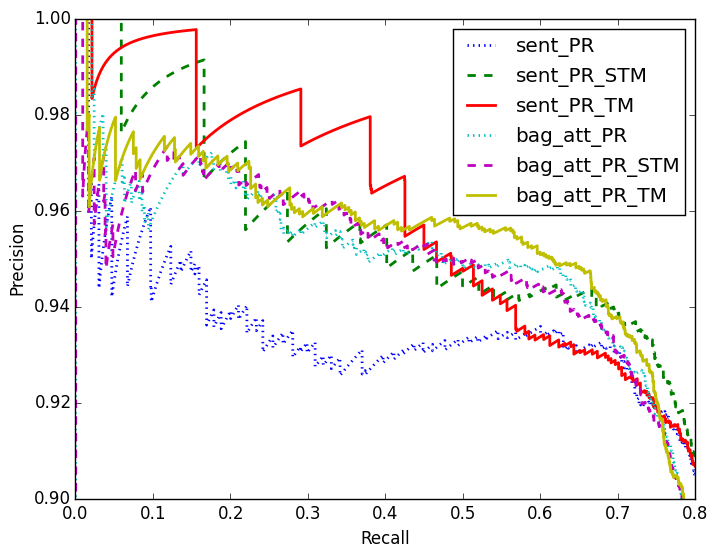
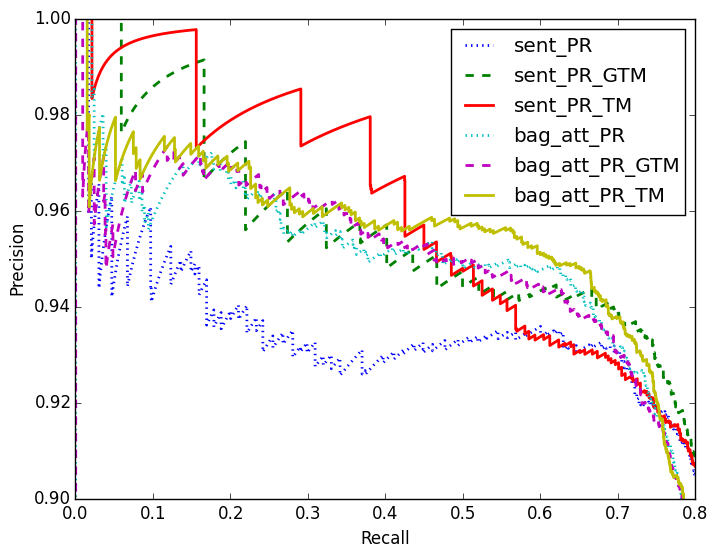
modification and expansion in related work, minor in results

Changed region(s): [[0.7057, 0.1221, 0.9512, 0.3662], [0.6137, 0.061, 0.675, 0.3968], [0.7057, 0.061, 0.8285, 0.0916]]

diff --git a/related.tex b/related.tex
@@ -4,8 +4,9 @@
 
 \paragraph{Distant Supervision in NLP} In addition to relation extraction~\cite{mintz2009distant}, distant supervision
 (\DS) is shown to be effective in generating training data for various NLP tasks, e.g., tweet sentiment
-classification~\cite{go2009twitter}, multi-instance learning with overlapping relations~\cite{ritter2011named}.
-However, these early applications of \DS do not address the issue of data noise.
+classification~\cite{go2009twitter}, \orange{tweet named entity classifying}~\cite{ritter2011named}.
+%multi-instance learning with overlapping relations~\cite{ritter2011named}.
+However, these early applications of \DS do not address the issue of data noise. \orange{no cross lingual POS tagging?}
 
 %Due to the simplicity and the good generalization ability of distant supervision, this method has been utilized in
 %many tasks. \cite{go2009twitter} builds training data for sentiment classification by using emoticons to label the
@@ -16,14 +17,15 @@ However, these early applications of \DS do not address the issue of data noise.
 %existence of the triple.
 
 \paragraph{Noise Reduction}
-Numerous approaches have been proposed in recent years to reduce the influence of wrongly labeled data in relation extraction (\RE).
+Some approaches have been proposed in recent years to reduce the influence of wrongly labeled data in relation extraction (\RE).
 The work presented by \cite{takamatsu2012reducing} removes potential noisy sentences by identifying bad syntactic
-patterns at the pre-processing stage. Several researchers proposed to alleviate the problem by considering the \RE task
-as a multi-instance classification
-problem and assume
-that at least one of the retrieved sentences (or sentence bags) supports the fact triple (i.e. at-least-one assumption)~\cite{riedel2010modeling,hoffmann2011knowledge,surdeanu2012multi,zeng2015distant,lin2016neural}.
-In contrast to our work in noise modeling, these prior approaches all aim to identify reliable sentences to reduce
-the bad influence of unreliable ones.
+patterns at the pre-processing stage. \cite{xu2013filling} uses pseudo-relevance feedback to find
+possible false negative data. \cite{riedel2010modeling} proposes to alleviate the noise problem by considering the \RE task
+as a multi-instance classification problem and assume
+that at least one of the retrieved sentences containing both \emph{subj} and \emph{obj} supports the corresponding $<$\emph{subj},\emph{rel},\emph{obj}$>$ triple (i.e. at-least-one assumption).
+Following this assumption, people further improves the original method using prababilistic graphic model mehtods~\cite{hoffmann2011knowledge,surdeanu2012multi}, and neural network methods \cite{zeng2015distant}. Recently \cite{lin2016neural} further proposes to use attention mechanism to reduce the noise inside the sentence bag. 
+In contrast to our work in noise modeling, these approaches all aim to identify either reliable or unreliable instances to reduce
+the bad influence of noise.
 
 %
 %Although distant supervision significantly reduces human efforts in build training data, it also introduces noise to
@@ -40,14 +42,12 @@ the bad influence of unreliable ones.
 \paragraph{Noise Modeling}
 The at-least-one assumption mentioned above is often too strong in practice, and there are still chances that the
 sentence bag may be false positive or false negative. Thus it is important to model the noise pattern to guide the learning procedure.
-Recent work in the area includes \cite{xu2013filling} which uses pseudo-relevance feedback to find
-possible false negative data, and \cite{ritter2013modeling} and \cite{min2013distant} that
+Recent works in the area include \cite{ritter2013modeling} and \cite{min2013distant} that
 employ a set of latent variables to represent the true relation. Our approach differs
-from the latter two approaches in two aspects. Firstly, we target the neutral network framework while
-they target the probabilistic graphic model framework. Secondly, we
-advance their models by providing the capability to model the fine-grained transition from the true to the observed relation.
-
-
+from the these two approaches in two aspects. 
+First, we target the neutral network framework while they target the probabilistic graphic model framework. 
+Second, we advance their models by providing the capability to model the fine-grained transition from the true to the observed relation.
+% Third, while our model is fully differentiable, their parameters used to model the transition from true relation to observed transtion need to be set by hand or heuristics.
 
 %\cite{ritter2013modeling,min2013distant} model the noise by adding a set of latent
 %variables to the MultiR model \cite{hoffmann2011knowledge} and the MIML model \cite{surdeanu2012multi} respectively to
@@ -66,13 +66,16 @@ advance their models by providing the capability to model the fine-grained trans
 %This method has the problem that it also removes good sentences since the sentences containing bag patterns are not always noises.
 %The noise can come from automatically constructed dataset like Tiny Images dataset \cite{torralba200880} where the images are gathered from web search engine and can also come from human labeled dataset \cite{misra2016seeing} like the MS COCO Captions dataset \cite{chen2015microsoft}.
 
-\paragraph{Neural Network Based Nenoising} Various approaches have been proposed in the computer vision domain for data noise reduction using neural networks~\cite{sukhbaatar2014training,reed2014training,chen2015webly,xiao2015learning,misra2016seeing}. Our model
-shares similar spirit with \cite{misra2016seeing} in that we all dynamically generate a transition matrix for each
-training data item. However, instead of using Expectation-Maximization (EM), we train our model with a curriculum learning framework and trace regularization.
-In the field of NLP, there is currently little work in neural-network-based denoising. The work presented in
-\cite{fang2016learning} is the nearest one, which uses a global transition matrix to model the noise introduced by
-cross-lingual projection of training data. Our work advances \cite{fang2016learning} through utilizing trace regularization
-to dynamically adapt the transition matrix. This leads to significant better performance (see Section~\ref{sec:evaluation}).
+% \paragraph{Neural Network Based Denoising} 
+Recently, various approaches have been proposed in the computer vision domain for modeling the data noise using neural networks.
+\cite{sukhbaatar2014training} proposes to use a global transition matrix to transform the true label distribution to the observed label distribution. They also propose the idea of trace regularization but use weight decay for simplicity. \cite{reed2014training} also uses a hidden layer to represent the true label distribution but try to force it to predict both the noisy label and the input. \cite{chen2015webly,xiao2015learning} first estimates the transition matrix on the clean data set and use it in the noisy data set. 
+% ~\cite{sukhbaatar2014training,reed2014training,chen2015webly,xiao2015learning,misra2016seeing}. 
+Our model shares similar spirit with \cite{misra2016seeing} in that we all dynamically generate a transition matrix for each
+training data item. 
+However, instead of using Expectation-Maximization (EM), we train our model with a curriculum learning framework and trace regularization.
+In the field of NLP, there is currently little work in neural-network-based nosie modeling. A recent work is conduct by \cite{fang2016learning}, which uses a global transition matrix to model the noise introduced by
+cross-lingual projection of training data. Our work advances \cite{fang2016learning} through generating a transition matrix for each datum dynamically, which avoids the drawback of global transition matrix that it use a single transition matrix for both reliable and unreliable data. 
+% This leads to significant better performance (see Section~\ref{sec:evaluation}).
 
 
 % Our method is also related to the thread of work of designing denoising neural network components in computer vision.  \cite{sukhbaatar2014training} proposes to use a global transition matrix to transform the true label distribution to the observed label distribution and uses weight decay on the transition matrix during training. \cite{reed2014training} also uses a hidden layer to represent the true label distribution but try to force it to predict both the noisy label and the input. \cite{chen2015webly,xiao2015learning} first estimates the transition matrix on the clean data set and use it in the noisy data set. \cite{misra2016seeing} generates the transition matrix dynamically for each training instance.

diff --git a/results.tex b/results.tex
@@ -62,16 +62,16 @@ This is because that it ranks highly the sentences expressing relation \emph{bir
 \end{center}
 \end{figure}
 
-\paragraph{Single and Dynamic Transition Matrix}
-We also compare our dynamic transition matrix method with the single transition matrix method. 
-Specifically, instead of dynamically generating a transition matrix for each datum, the single transition matrix method use a single transition matrix for all the traning data. First, we initialize an identity matrix $\mathbf{T}'\in\mathbb{R}^{k\times k}$ where $k$ is the number of relations (including \orange{\emph{no\_relation}, (unify the notation)}), then the single transition matrix is calculated with row-wise softmax:
+\paragraph{Global v.s. Dynamic Transition Matrix}
+We also compare our dynamic transition matrix method with the global transition matrix method. 
+Specifically, instead of dynamically generating a transition matrix for each datum, the global transition matrix method use a single transition matrix for all the traning data. First, we initialize an identity matrix $\mathbf{T}'\in\mathbb{R}^{k\times k}$ where $k$ is the number of relations (including \orange{\emph{no\_relation}, (unify the notation)}), then the global transition matrix is calculated with row-wise softmax:
 \begin{equation}
 \label{shared_mat}
 T_{ij} = \frac{e^{T'_{ij}}}{\sum_{j=1}^{k}{e^{T'_{ij}}}}
 \end{equation}
 where $T_{ij}$ and $T'_{ij}$ are the elements in the $i^{th}$ row and $j^{th}$ column of $\mathbf{T}$ and $\mathbf{T}'$. The element values of matrix $\mathbf{T}'$ are also updated via backpropagation during training.
 The results are shown in Figure \ref{fig: cmp_single_dynamic}.
-We can see that using only a single transition matrix (\texttt{\_STM}) is also beneficial and it improves both (\texttt{sent\_PR}) and (\texttt{bag\_att\_PR}). However, since using only a single transition matrix only captures global noise pattern and will therefore create noise when the data is reliable, it performs worse than our dynamic transition matrix methods (\texttt{\_TM}).
+We can see that using only a global transition matrix (\texttt{\_GTM}) is also beneficial and it improves both (\texttt{sent\_PR}) and (\texttt{bag\_att\_PR}). However, since the global transition matrix only captures global noise pattern and will therefore have incorrect behavior when the data is reliable, it performs worse than our dynamic transition matrix methods (\texttt{\_TM}).
 
 \begin{figure}[t!]
 \includegraphics[width=0.9\linewidth]{figures/re_att_avg_cmp_exp.png}
